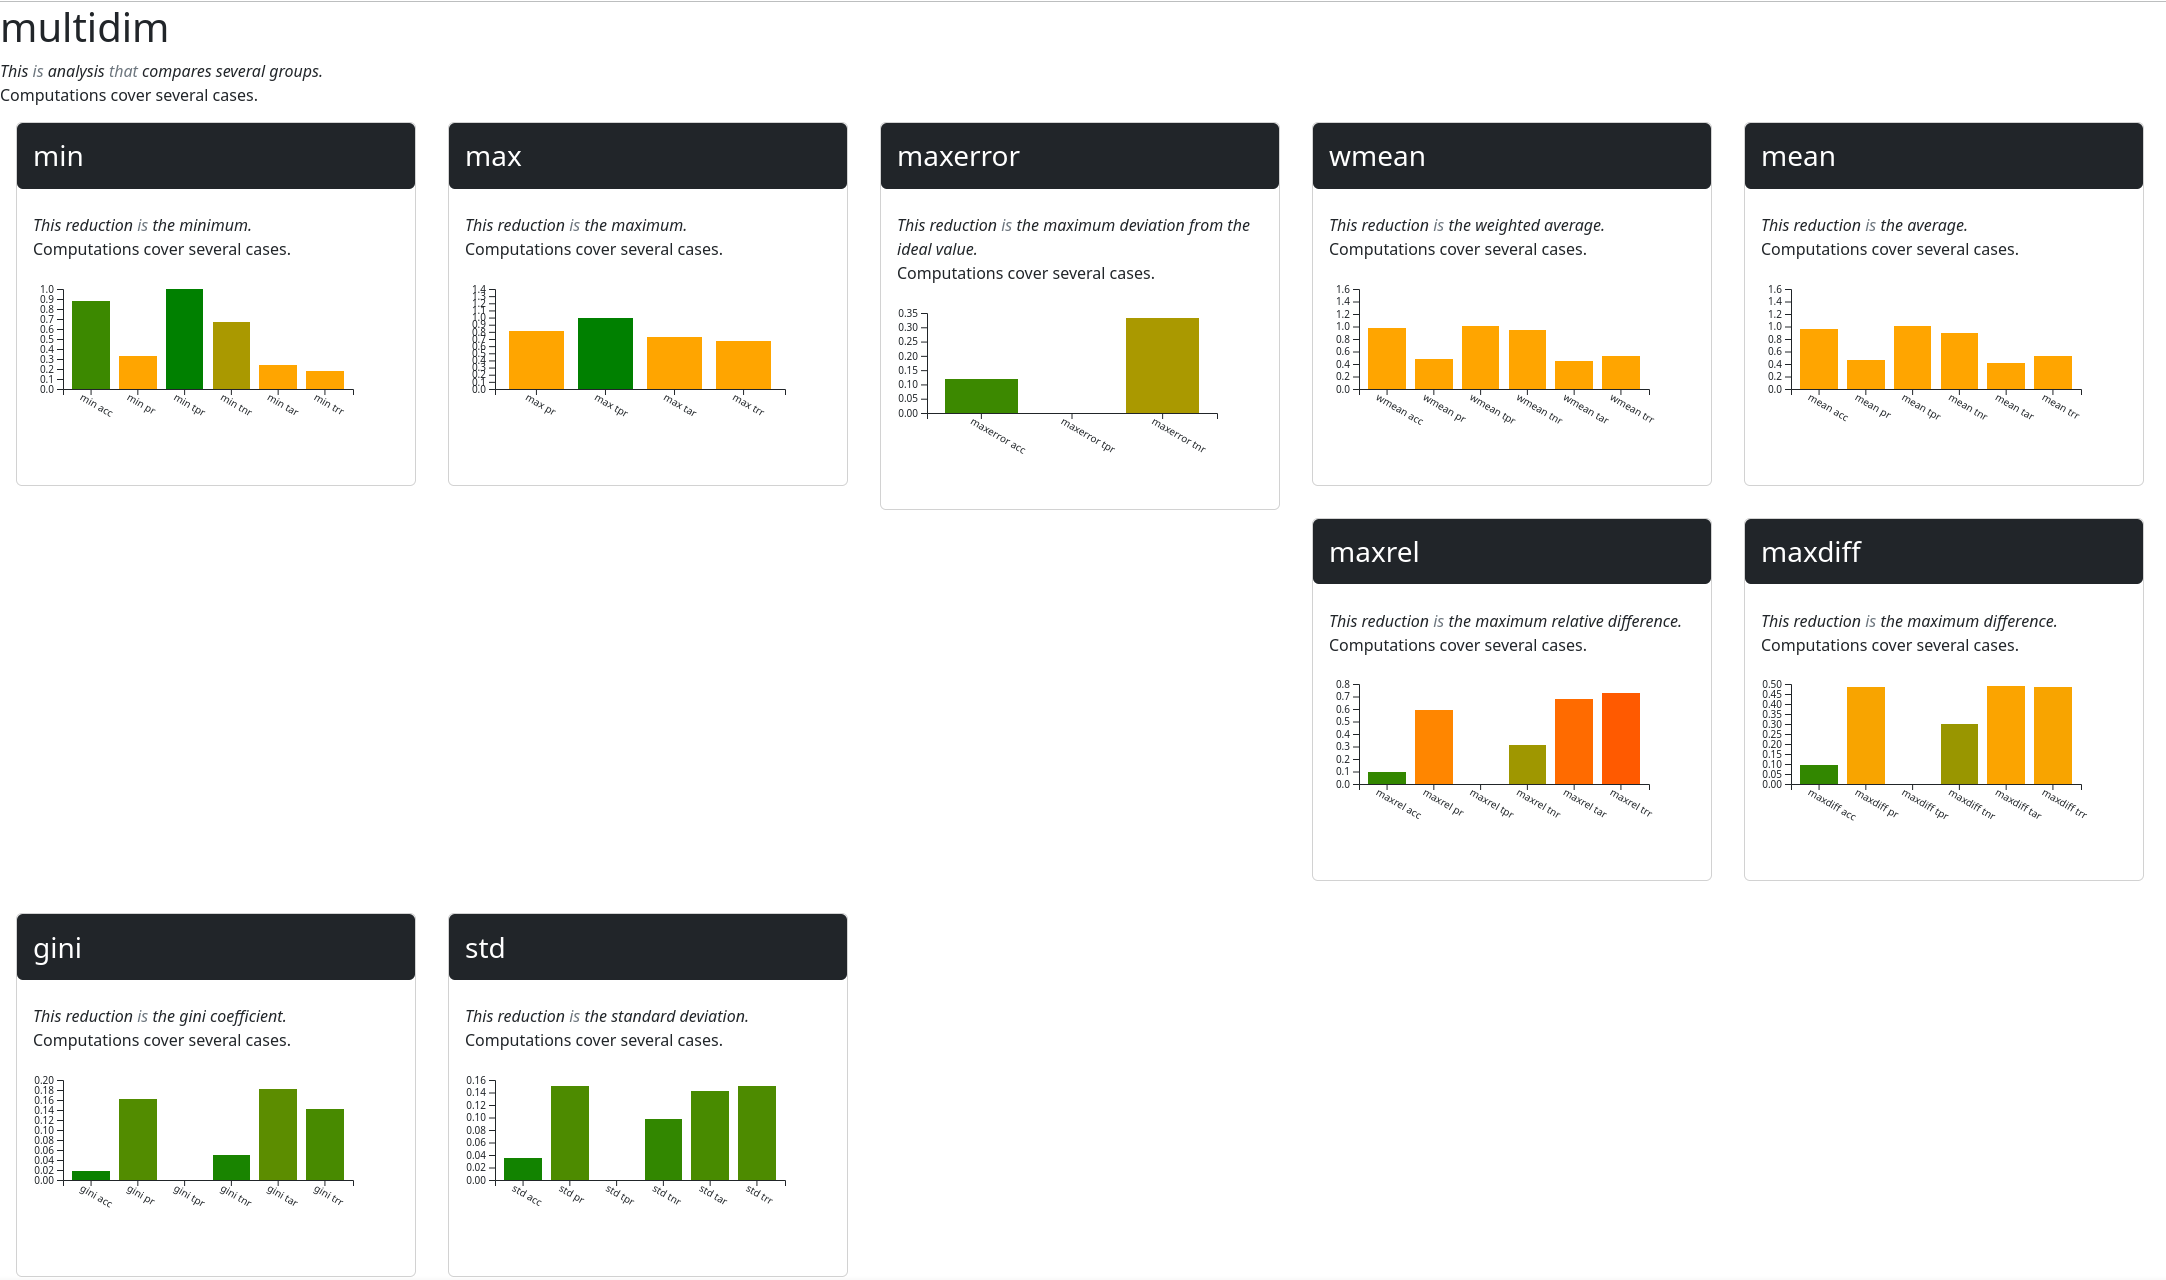
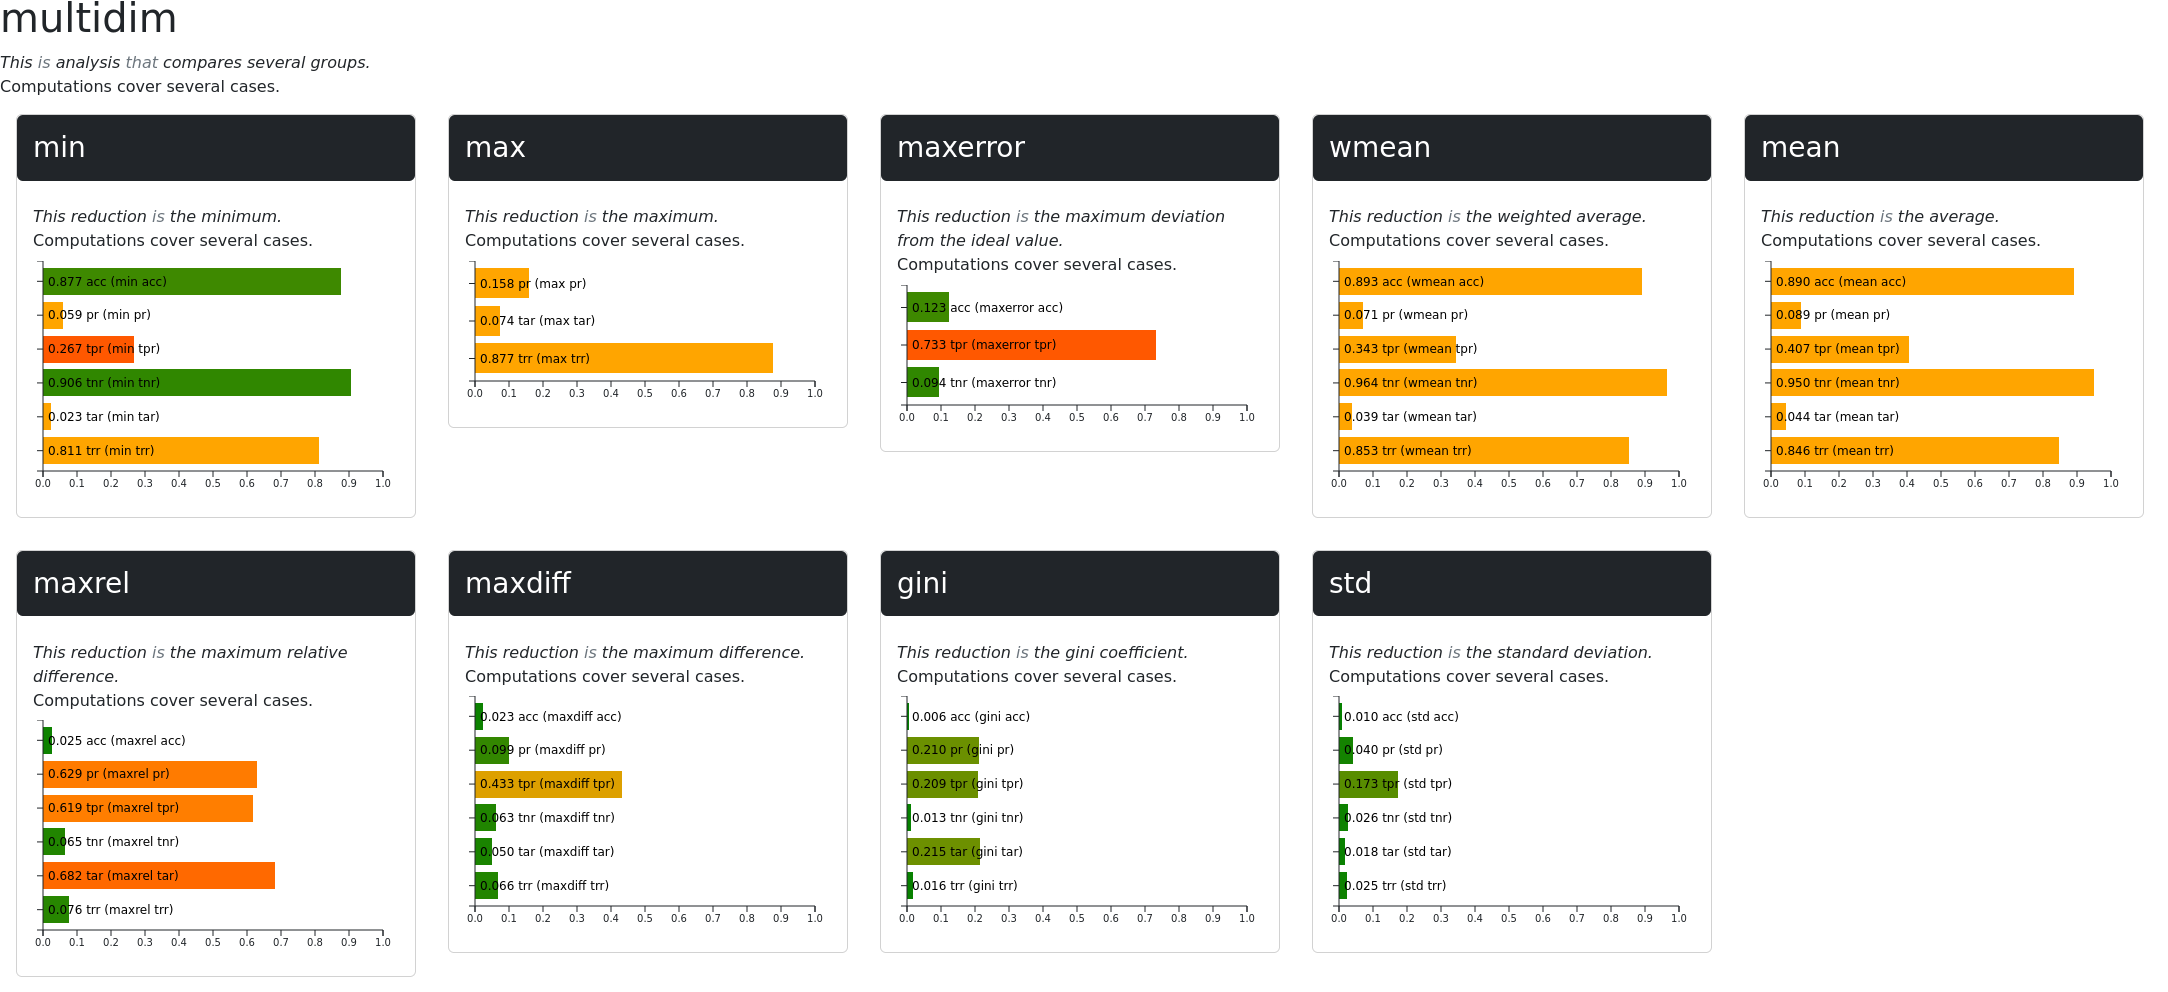
improved html environment

diff --git a/fairbench/v2/export/formats/html.py b/fairbench/v2/export/formats/html.py
@@ -164,7 +164,17 @@ class Html:
             self.contents += (
                 f"<details><summary>Obtained from {len(self.bars)} values</summary>\n"
             )
-        bar_data = [{"title": t, "val": v, "target": trg} for t, v, trg in self.bars]
+        bar_data = [
+            {
+                "title": (f"{v:.3f} " if v < 1 else str(int(t))) + t,
+                "val": v,
+                "target": trg,
+            }
+            for t, v, trg in self.bars
+        ]
+        max_val = max(v for t, v, trg in self.bars)
+        if max_val < 1:
+            max_val = 1
         bar_json = str(bar_data).replace("'", '"')
         Html.chart_count += 1
         cid = Html.chart_count
@@ -173,10 +183,10 @@ class Html:
             self.contents += f"""
                 <script>
                     const data{cid} = {bar_json};
-                    const margin{cid} = {{ top: 20, right: 200, bottom: 40, left: 10 }};
+                    const margin{cid} = {{ top: 0, right: 50, bottom: 30, left: 10 }};
                     const width{cid} = {400 if self.horizontal else 600} - margin{cid}.left - margin{cid}.right;
-                    const barHeight{cid} = 40;
-                    const height{cid} = data{cid}.length * barHeight{cid} - margin{cid}.top - margin{cid}.bottom;
+                    const barHeight{cid} = 30;
+                    const height{cid} = data{cid}.length * barHeight{cid}+30;
 
                     const svg{cid} = d3.select("#bar-chart{cid}")
                                       .append("svg")
@@ -190,8 +200,7 @@ class Html:
                         .range([0, height{cid}])
                         .padding(0.2);
 
-                    const x{cid} = d3.scaleLinear()
-                        .domain([0, d3.max(data{cid}, d => Math.max(d.val, d.target))])
+                    const x{cid} = d3.scaleLinear().domain([0, {max_val}])
                         .nice()
                         .range([0, width{cid}]);
 
@@ -213,27 +222,13 @@ class Html:
                         .attr("width", d => x{cid}(d.val))
                         .attr("fill", d => colorScale{cid}(Math.abs(d.val - d.target)));
 
-                    // Add the number inside the bar (aligned near the right end but inside)
-                    svg{cid}.selectAll(".bar-value")
-                        .data(data{cid})
-                        .enter()
-                        .append("text")
-                        .attr("class", "bar-value")
-                        .attr("x", d => x{cid}(d.val) - 5) // 5px padding inside the bar
-                        .attr("y", d => y{cid}(d.title) + y{cid}.bandwidth() / 2)
-                        .attr("dy", ".35em")
-                        .text(d => formatNumber{cid}(d.val))
-                        .attr("fill", "white")
-                        .attr("font-size", "12px")
-                        .attr("text-anchor", "end"); // align to the end (right)
-
                     // Add the label (title) right outside the bar
                     svg{cid}.selectAll(".bar-label")
                         .data(data{cid})
                         .enter()
                         .append("text")
                         .attr("class", "bar-label")
-                        .attr("x", d => x{cid}(d.val) + 5) // 5px outside the bar
+                        .attr("x", d => 5) // 5px padding inside the bar
                         .attr("y", d => y{cid}(d.title) + y{cid}.bandwidth() / 2)
                         .attr("dy", ".35em")
                         .text(d => d.title)
@@ -247,7 +242,7 @@ class Html:
 
                     svg{cid}.append("g")
                         .attr("transform", `translate(0, ${{height{cid}}})`)
-                        .call(d3.axisBottom(x{cid}));
+                        .call(d3.axisBottom(x{cid}).tickFormat(d => (d / {max_val}).toFixed(1)));
                 </script>
             """
         else:
@@ -278,7 +273,7 @@ class Html:
                        .style("text-anchor", "start");
     
                     const y{cid} = d3.scaleLinear()
-                        .domain([0, d3.max(data{cid}, d => Math.max(d.val, d.target))])
+                        .domain([0, {max_val}])
                         .nice()
                         .range([height{cid}, 0]);
     

diff --git a/playground/objworks/simple_exploration.py b/playground/objworks/simple_exploration.py
@@ -5,7 +5,7 @@ test, y, yhat = fb.bench.tabular.bank()
 sensitive = fb.Dimensions(fb.categories @ test["education"])
 report = fb.reports.pairwise(sensitive=sensitive, predictions=yhat, labels=y)
 
-report.filter(fb.investigate.DeviationsOver(0.2)).show(env=fb.export.ConsoleTable)
+report.show(env=fb.export.Html(distributions=True, horizontal=True))
 
 report.show()
 

diff --git a/docs/material/visualization.md b/docs/material/visualization.md
@@ -3,8 +3,7 @@
 Reports accept visualization environments as arguments to their `show` method.
 These environments can be either static or interactive, where the last
 category requires FairBench to be installed with the `interactive` extra
-dependencies like below. You can always install specific libraries by looking
-at error messages to avoid the full bundle.
+dependencies:
 
 ```bash
 pip install --upgrade fairbench[interactive]
@@ -14,10 +13,10 @@ pip install --upgrade fairbench[interactive]
 
 The default visualization environment prints all report
 details in the console (it also uses ansi color codes
-that do not appear in this page). This environment can be
-explicitly selected by passing its class as an argument
+that do not appear in this page). It can also be
+selected by passing its class as an argument
 to the `show` method, in which case it is instantiated
-with its default values.
+with default arguments.
 
 ```python
 report.show(env=fb.export.Console)
@@ -26,8 +25,7 @@ report.show(env=fb.export.Console)
 The above makes use of the [ansiplot](https://github.com/maniospas/ansiplot)
 library to have some nice plots. You can switch
 to a less verbose style by manually instantiating
-the environment instead of passing its class to
-be created with the default arguments:
+the environment, like below.
 
 ```python
 report.show(env=fb.export.Console(ansiplot=False))
@@ -130,8 +128,8 @@ report.show(env=fb.export.Console(ansiplot=False))
 
 A more concise visualization strategy is to create
 tables in the console, like below. This also admits
-a `sideways` argument with default value True
-that determines whether to attempt to show
+a `sideways` argument with default value *True*
+that determines whether to show
 multiple tables side-by-side if necessary.
 It also accepts a `legend` argument with default False
 about showing additional textual descriptions,
@@ -158,7 +156,7 @@ std                                      0.333        0.083        0.500        
 !!! tip
     The default options of ConsoleTable provides the most concise representation of results.
     However, you might need refreshers about each entry, for example by adding a legend
-    or simply running `report.help()` first.
+    or running `report.help()`.
 
 ## Html
 
@@ -166,22 +164,35 @@ This is an equivalent to the Console environment that converts
 presented text and quantities to a static HTML page. That page 
 displays evaluation cards one under the other, as demonstrated
 [here](../documentation/example_html.html) for the fairness 
-model card filtering found in the [quickstart](../quickstart.md).
+model card filtering found in the [quickstart](../quickstart.md). 
 
-If you have a wide screen, it may be more convenient to display 
-the individual cards side-by-side by setting `horizontal=False` 
-in the environment's constructor. An example is shown below.
-Get the generated HTML in text form without opening any browser
-window, for example to show later, by passing `view=False` 
-to the constructor. Here is an example of what this looks like 
-in code.
+When instantiating the environment with non-default values,U
+use the `filename` argument to set in which file to export results. 
+If this is *None*, the generated HTML text is returned from the
+showing method. Pass `view=False` if you want to write to the file
+without showing anything instead. An example follows.
 
 ```python
-report = ... # compute fairness report
-html_text = report.show(fb.export.Html(horizontal=False, view=False)) 
+html_text = report.show(fb.export.Html(filename=None, horizontal_bars=False)) 
+```
+
+If you have a wide enough screen, it may be more convenient to display 
+the individual cards side-by-side by setting `horizontal=False` 
+in the environment's constructor. An example is shown below.
+By default, distributions are hidden under expanding 
+details, but set `distributions=True` to make make them
+always visible. Finally, set `horizontal_bars=False` to 
+create bar plots with vertical bars; otherwise, horizontal
+bars are used to account for scenarios where many values
+are plotted to be compared. These options are demonstrated below.
+
+```python
+report.show(env=fb.export.Html(distributions=True, horizontal=True, horizontal_bars=True))
 ```
 
 ![html_horizontal.png](html_horizontal.png)
+
+
 
 
 ## HtmlTable
